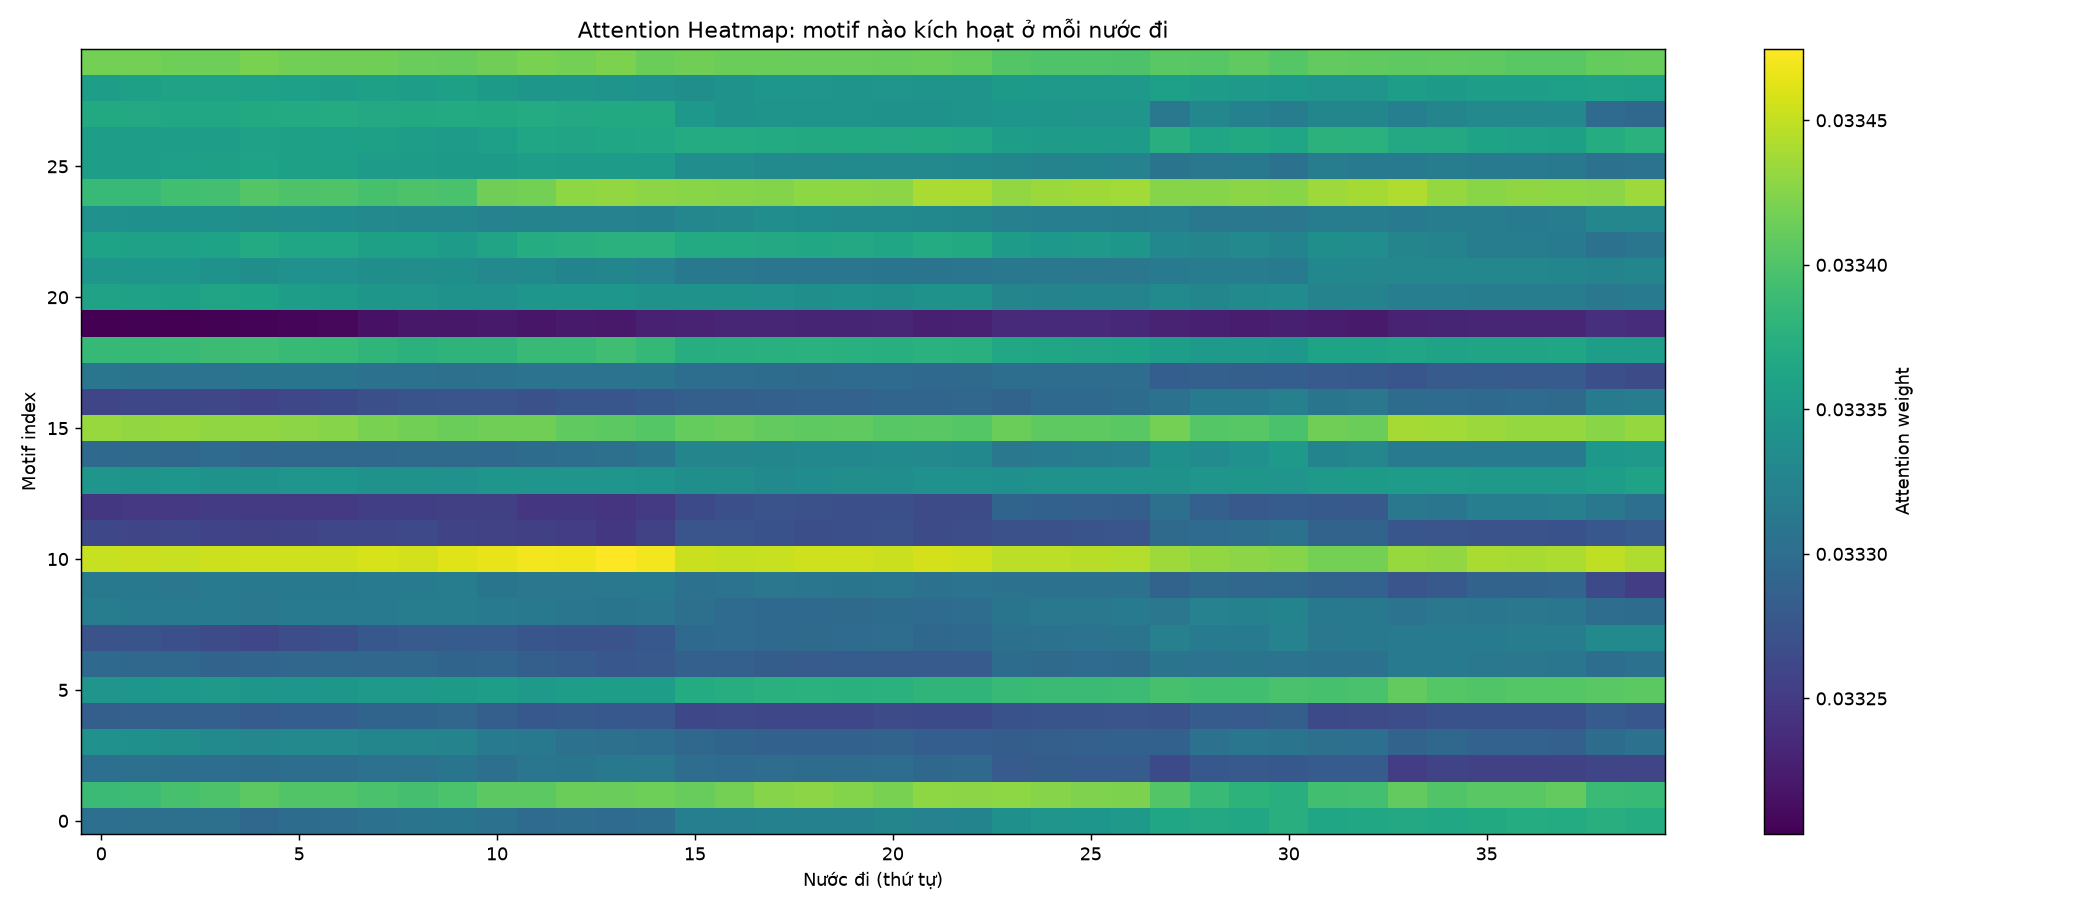
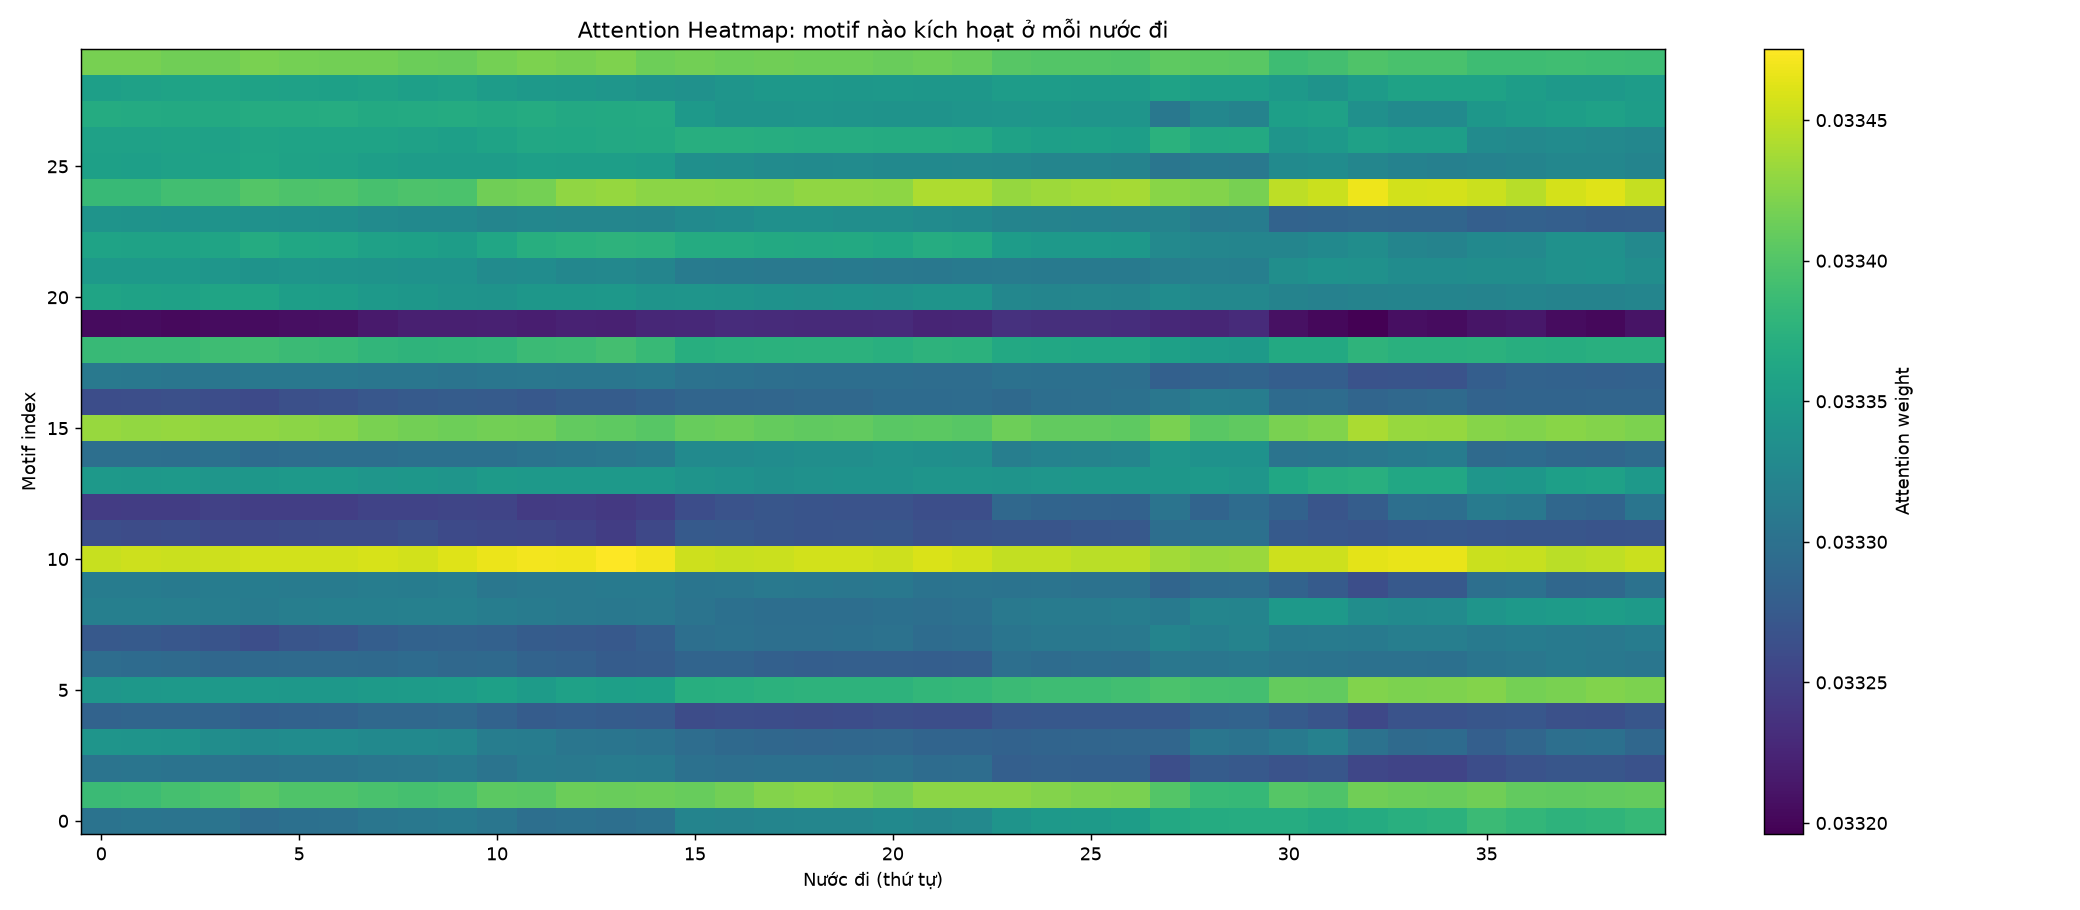
fix_model

diff --git a/src/training/ppo.py b/src/training/ppo.py
@@ -171,6 +171,14 @@ class PPOAgent:
         self.use_amp = bool(config.use_amp) and self.device.type == "cuda"
         self.scaler = torch.amp.GradScaler("cuda", enabled=self.use_amp)
 
+        # --- Chống "train chết âm thầm" ---
+        # ``_init_scale``: scale ban đầu của GradScaler. Khi GradScaler phát hiện
+        # inf/NaN trong grad, nó GIẢM scale và bỏ qua ``optimizer.step()``. Ta so
+        # scale hiện tại với scale ban đầu để phát hiện việc skip này.
+        self._init_scale = float(self.scaler.get_scale())
+        # Tổng số minibatch đã bị skip kể từ lúc khởi tạo agent.
+        self.skipped_steps = 0
+
         self.last_stats: Dict[str, float] = {}
 
     # ------------------------------------------------------------------
@@ -268,12 +276,15 @@ class PPOAgent:
         n = len(all_graphs)
         mb_size = max(1, min(self.config.minibatch_size, n))
         stats: Dict[str, float] = {}
+        skipped_before = self.skipped_steps
+        n_minibatches = 0
 
         for _epoch in range(self.config.update_epochs):
             perm = torch.randperm(n)
             for start in range(0, n, mb_size):
                 mb_idx = perm[start : start + mb_size]
                 idx_list = mb_idx.tolist()
+                n_minibatches += 1
 
                 batch = Batch.from_data_list(
                     [all_graphs[i] for i in idx_list]
@@ -310,12 +321,29 @@ class PPOAgent:
                         + self.config.entropy_coef * entropy_loss
                     )
 
+                if not torch.isfinite(loss):
+                    raise FloatingPointError(
+                        "loss = NaN/Inf trong PPO update. "
+                        "Thường do entropy tính cả trên hành động ngoài legal mask "
+                        "(0 * -inf) hoặc logits/log_prob không hữu hạn. "
+                        "Kiểm tra lại XiangqiPolicyNet.evaluate()."
+                    )
+
                 self.optimizer.zero_grad(set_to_none=True)
                 self.scaler.scale(loss).backward()
                 self.scaler.unscale_(self.optimizer)
-                torch.nn.utils.clip_grad_norm_(
+                grad_norm = torch.nn.utils.clip_grad_norm_(
                     self.model.parameters(), self.config.max_grad_norm
                 )
+
+                # GradScaler bỏ qua step khi gặp inf/NaN trong grad. Ghi lại
+                # số lần bị skip để phát hiện "train chết âm thầm" (chính là
+                # chuyện đã xảy ra ở vòng train 1e6 bước trước).
+                was_skipped = bool(
+                    self.scaler.get_scale() < self._init_scale
+                )
+                if was_skipped:
+                    self.skipped_steps += 1
                 self.scaler.step(self.optimizer)
                 self.scaler.update()
 
@@ -330,11 +358,24 @@ class PPOAgent:
                     "entropy": float(entropy.mean().item()),
                     "approx_kl": float(approx_kl.item()),
                     "clip_frac": float(clip_frac.item()),
+                    "grad_norm": float(grad_norm),
                     "loss": float(loss.item()),
                     "lr": float(self.optimizer.param_groups[0]["lr"]),
                 }
 
         self.scheduler.step()
         self.last_stats = stats
+
+        stats["skipped_steps"] = self.skipped_steps
+        stats["minibatches"] = n_minibatches
+
+        # Cảnh báo nếu cả lần update đều bị GradScaler bỏ qua -> mô hình
+        # không học được gì dù vẫn "chạy" suốt 1e6 bước.
+        skipped_now = self.skipped_steps - skipped_before
+        if skipped_now > 0:
+            logger.warning(
+                "GradScaler đã bỏ qua %d/%d minibatch trong lần update (grad inf/NaN).",
+                skipped_now, n_minibatches,
+            )
         return stats
 

diff --git a/tests/test_model.py b/tests/test_model.py
@@ -130,6 +130,39 @@ def test_evaluate_shapes_and_entropy(batched_graphs, small_model) -> None:
     assert (entropy >= 0).all()
 
 
+def test_evaluate_entropy_is_finite_and_masked(batched_graphs, small_model) -> None:
+    """HỒI QUY cho bug vòng train 1e6 bước: entropy phải finite, không NaN.
+
+    Nguyên nhân cũ: ``-(probs * log_probs_all).sum(-1)`` tính cả trên hành
+    động ngoài legal mask, trong đó ``probs=0`` và ``log_probs=-inf`` nên
+    ``0 * -inf = NaN``. NaN lan sang ``loss`` -> ``GradScaler`` bỏ qua
+    ``optimizer.step()`` -> cả vòng train 1e6 bước không học gì.
+    """
+    batch, mask = batched_graphs
+    actions = torch.tensor(
+        [int(m.nonzero()[0]) for m in mask], dtype=torch.long
+    )
+    log_probs, entropy, _values = small_model.evaluate(batch, actions, mask)
+
+    assert torch.isfinite(entropy).all(), (
+        f"entropy chứa NaN/Inf: {entropy}. Bug 0 * -inf ngoài legal mask."
+    )
+    assert torch.isfinite(log_probs).all()
+    assert (entropy >= 0).all()
+
+    # Entropy phải khớp công thức thủ công chỉ trên hành động hợp lệ.
+    import torch.nn.functional as F
+
+    with torch.no_grad():
+        out = small_model(batch, mask)
+        logp = F.log_softmax(out.logits, dim=-1)
+        probs = logp.exp()
+        ref = -(
+            torch.where(mask, probs * logp, torch.zeros_like(probs)).sum(dim=-1)
+        )
+    assert torch.allclose(entropy, ref, atol=1e-5)
+
+
 def test_backward_gradients_flow_everywhere(batched_graphs, small_model) -> None:
     """Backward phải tạo gradient cho TẤT CẢ tham số (kể cả motif_bank)."""
     batch, mask = batched_graphs

diff --git a/src/models/policy_net.py b/src/models/policy_net.py
@@ -214,8 +214,24 @@ class XiangqiPolicyNet(nn.Module):
         probs = log_probs_all.exp()
 
         log_probs = log_probs_all.gather(-1, actions.unsqueeze(-1)).squeeze(-1)
-        # Entropy của phân phối đã mask (prob ngoài mask ~ 0 nên số hạng an toàn)
-        entropy = -(probs * log_probs_all).sum(dim=-1)
+
+        # Entropy của phân phối ĐÃ mask.
+        #
+        # BẪY (bug đã làm hỏng toàn bộ vòng train 1e6 bước): hành động ngoài mask
+        # có ``log_probs_all = -inf`` và ``probs = 0``, nên ``probs * log_probs_all``
+        # = ``0 * -inf`` = **NaN**. NaN lan sang ``loss`` -> ``GradScaler`` bỏ qua
+        # ``optimizer.step()`` -> weights đứng yên suốt 21 batch.
+        #
+        # Cách sửa: chỉ giữ lại số hạng ở hành động hợp lệ, zero-out phần còn lại.
+        mask = legal_mask.to(dtype=torch.bool, device=probs.device)
+        # Dòng không còn hành động hợp lệ (ván đã kết thúc) -> coi như toàn bộ hợp lệ
+        # để khớp với ``apply_legal_mask`` và tránh entropy = 0 giả.
+        empty_rows = ~mask.any(dim=-1, keepdim=True)
+        mask = mask | empty_rows
+
+        terms = probs * log_probs_all
+        terms = torch.where(mask, terms, torch.zeros_like(terms))
+        entropy = -(terms.sum(dim=-1))
         return log_probs, entropy, out.value
 
     @property

diff --git a/logs/eval_results.md b/logs/eval_results.md
@@ -1,4 +1,4 @@
 | Đối thủ                      | Games |  Win  |  Draw |   Loss | WinRate  | ScoreRate | Elo [CI 95%]              |
 |------------------------------|-------|-------|-------|--------|----------|-----------|---------------------------|
-| vs Random                    |   100 |     3 |    91 |      6 |    0.030 |     0.485 |   -37.3 [  -44.9,    18.8] |
+| vs Random                    |   100 |     8 |    85 |      7 |    0.080 |     0.505 |    -3.5 [  -36.9,    44.0] |
 | vs Pretrained skeleton       |    50 |     0 |    50 |      0 |    0.000 |     0.500 |     0.0 [    0.0,     0.0] |
